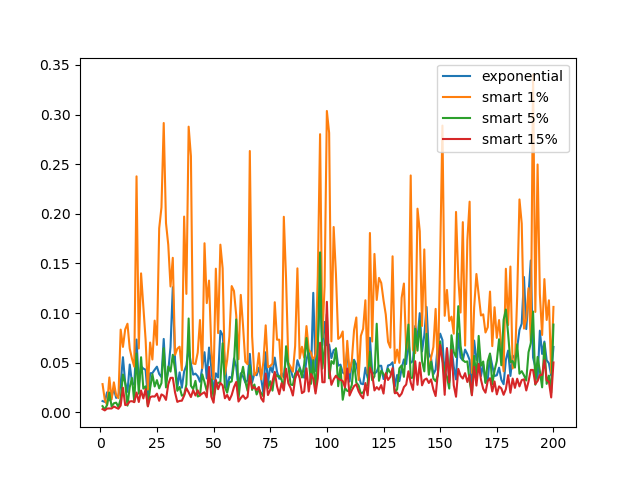
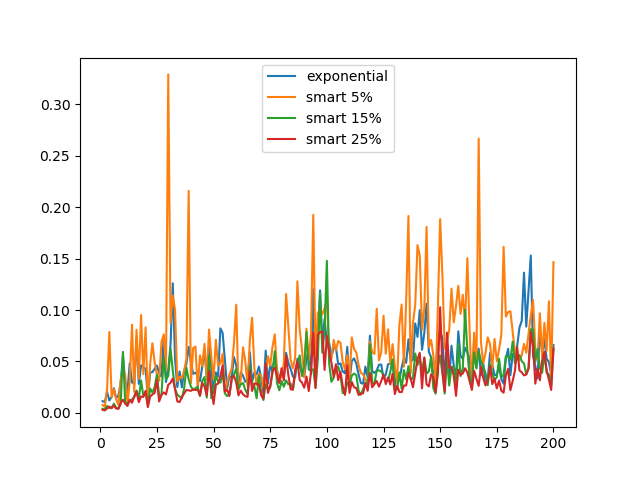
New results for variances on different smart percentages

diff --git a/README.md b/README.md
@@ -37,11 +37,11 @@ Usages with different quantization algorithms:
 The following table contains some information concerning running resnet-20 cifar-10 on the convnet regime, i.e., 200 epochs
 with decaying learning rate, using three quantization algorithms: standard, smart and exponential, with `bucket` size `51200` and `level` 16 both.
 
-|               |standard | exponential| smart 1% | smart 5% | smart 15% |
-|---------------|---------|------------|----------|----------|-----------|
-|test accuracy  |  90.8%  | 92.2%      |91.4%     |    ~     |    ~      |
-|time per epoch | ~130s   | ~330s      | ~350s    |  ~1225s  |    ~      |
-|avg. variance  | 1.044   |  0.049     |  0.102   |  0.041   |   0.027   |
+|               |standard | exponential| smart 1% | smart 5% | smart 15% | smart 25% |
+|---------------|---------|------------|----------|----------|-----------|-----------|
+|test accuracy  |  90.8%  | 92.2%      |91.4%     |    ~     |    ~      |    ~      |
+|time per epoch | ~130s   | ~330s      | ~350s    |  ~1225s  |    ~      |    ~      |
+|avg. variance  | 1.044   |  0.049     |  0.18    |  0.069   |   0.036   |   0.03    |
 
 Variance of the quantization is considered as follows. We find `level` target points. Then for any `x` from the bucket
 we choose the two nearest target points `l` and `r` from below and above, and finally add `(x - l)(r - x)` to the variance.
